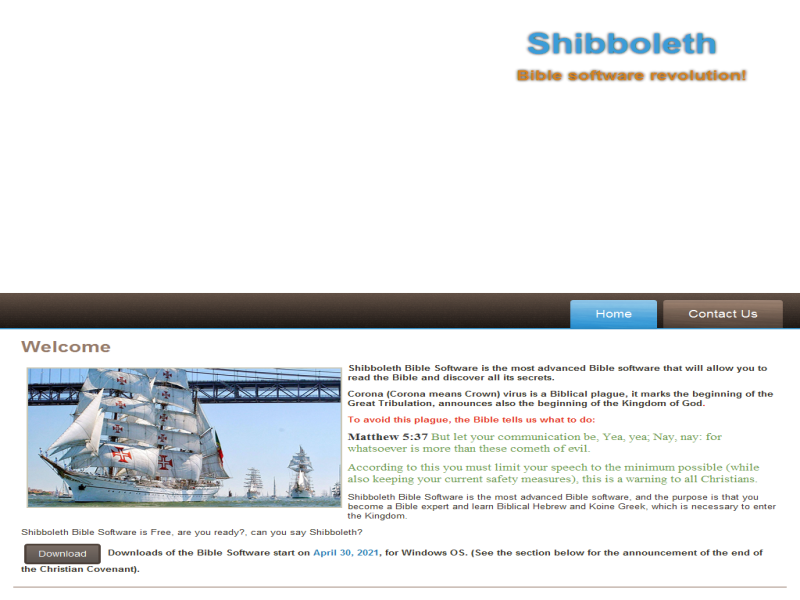
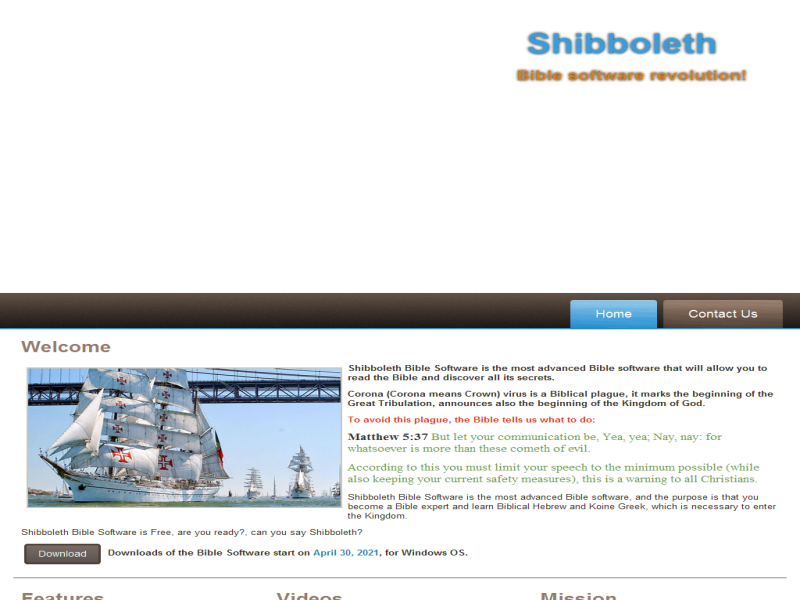
5

Changed region(s): [[0.0, 0.93, 1.0, 1.0], [0.5938, 0.9, 0.9688, 0.93]]

diff --git a/index.html b/index.html
@@ -100,7 +100,7 @@ StatCounter"></a></div></noscript>
         </p><p>
         </p><p><span style="font-weight: bold;">Shibboleth Bible Software is the most advanced Bible software that will allow you to read the Bible and discover all its secrets.</span></p><p><span style="font-weight: bold;">Corona (Corona means Crown) virus is a Biblical plague, it&nbsp;marks the beginning of the Great Tribulation, announces also the beginning of the Kingdom of God<span style="color: rgb(226, 52, 29);">.</span></span></p><p><span style="color: rgb(226, 52, 29); font-weight: bold;">To avoid this plague, the Bible tells us what to do:</span></p><p><span style="font-family: 'Century Gothic';"><span class="verse" style="box-sizing: border-box; color: rgb(51, 51, 51); font-size: 1.3em; background-color: rgb(255, 255, 255); font-weight: bold;">Matthew 5:37<span style="color: #68954B;">&nbsp;</span></span><span class="verse" style="box-sizing: border-box; font-size: 1.3em; font-weight: 400; background-color: #FFFFFF; color: #68954B;"><span style="color: #68954B;">But let your communication be, Yea, yea; Nay, nay: for whatsoever is more than these cometh of evil</span>.</span></span><span style="font-weight: bold;"><span style="color: rgb(226, 52, 29);"><br></span></span></p><p><span style="color: rgb(104, 149, 75); font-family: 'Century Gothic'; font-size: 17px;">According to this you must limit your speech to the minimum possible (while also keeping your current safety measures), this is a warning to all Christians.</span></p>
         <p>Shibboleth Bible Software is the most advanced Bible software, and the purpose is that you become a Bible expert and learn Biblical Hebrew and Koine Greek, which is necessary to enter the Kingdom.</p><p>Shibboleth Bible Software is Free, are you ready?, can you say Shibboleth?</p>
-        <p>&nbsp;<a href="#" class="art-button">Download</a>&nbsp;<span style="font-weight: bold;">Downloads of the Bible Software start on</span> <span style="font-weight: bold; color: #2379AF;">April 30</span><span style="font-weight: bold;"><span style="color: #2379AF;">, 2021</span>, for Windows OS. (See the section below for the announcement of the end of the Christian Covenant).</span><br></p>
+        <p>&nbsp;<a href="#" class="art-button">Download</a>&nbsp;<span style="font-weight: bold;">Downloads of the Bible Software start on</span> <span style="font-weight: bold; color: #2379AF;">April 30</span><span style="font-weight: bold;"><span style="color: #2379AF;">, 2021</span>, for Windows OS.</span><br></p>
     </div>
     </div>
 </div>

diff --git a/software.html b/software.html
@@ -100,7 +100,7 @@ StatCounter"></a></div></noscript>
         </p><p>
         </p><p><span style="font-weight: bold;">Shibboleth Bible Software is the most advanced Bible software that will allow you to read the Bible and discover all its secrets.</span></p><p><span style="font-weight: bold;">Corona (Corona means Crown) virus is a Biblical plague, it&nbsp;marks the beginning of the Great Tribulation, announces also the beginning of the Kingdom of God<span style="color: rgb(226, 52, 29);">.</span></span></p><p><span style="color: rgb(226, 52, 29); font-weight: bold;">To avoid this plague, the Bible tells us what to do:</span></p><p><span style="font-family: 'Century Gothic';"><span class="verse" style="box-sizing: border-box; color: rgb(51, 51, 51); font-size: 1.3em; background-color: rgb(255, 255, 255); font-weight: bold;">Matthew 5:37<span style="color: #68954B;">&nbsp;</span></span><span class="verse" style="box-sizing: border-box; font-size: 1.3em; font-weight: 400; background-color: #FFFFFF; color: #68954B;"><span style="color: #68954B;">But let your communication be, Yea, yea; Nay, nay: for whatsoever is more than these cometh of evil</span>.</span></span><span style="font-weight: bold;"><span style="color: rgb(226, 52, 29);"><br></span></span></p><p><span style="color: rgb(104, 149, 75); font-family: 'Century Gothic'; font-size: 17px;">According to this you must limit your speech to the minimum possible (while also keeping your current safety measures), this is a warning to all Christians.</span></p>
         <p>Shibboleth Bible Software is the most advanced Bible software, and the purpose is that you become a Bible expert and learn Biblical Hebrew and Koine Greek, which is necessary to enter the Kingdom.</p><p>Shibboleth Bible Software is Free, are you ready?, can you say Shibboleth?</p>
-        <p>&nbsp;<a href="#" class="art-button">Download</a>&nbsp;<span style="font-weight: bold;">Downloads of the Bible Software start on</span> <span style="font-weight: bold; color: #2379AF;">April 30</span><span style="font-weight: bold;"><span style="color: #2379AF;">, 2021</span>, for Windows OS. (See the section below for the announcement of the end of the Christian Covenant).</span><br></p>
+        <p>&nbsp;<a href="#" class="art-button">Download</a>&nbsp;<span style="font-weight: bold;">Downloads of the Bible Software start on</span> <span style="font-weight: bold; color: #2379AF;">April 30</span><span style="font-weight: bold;"><span style="color: #2379AF;">, 2021</span>, for Windows OS.</span><br></p>
     </div>
     </div>
 </div>
